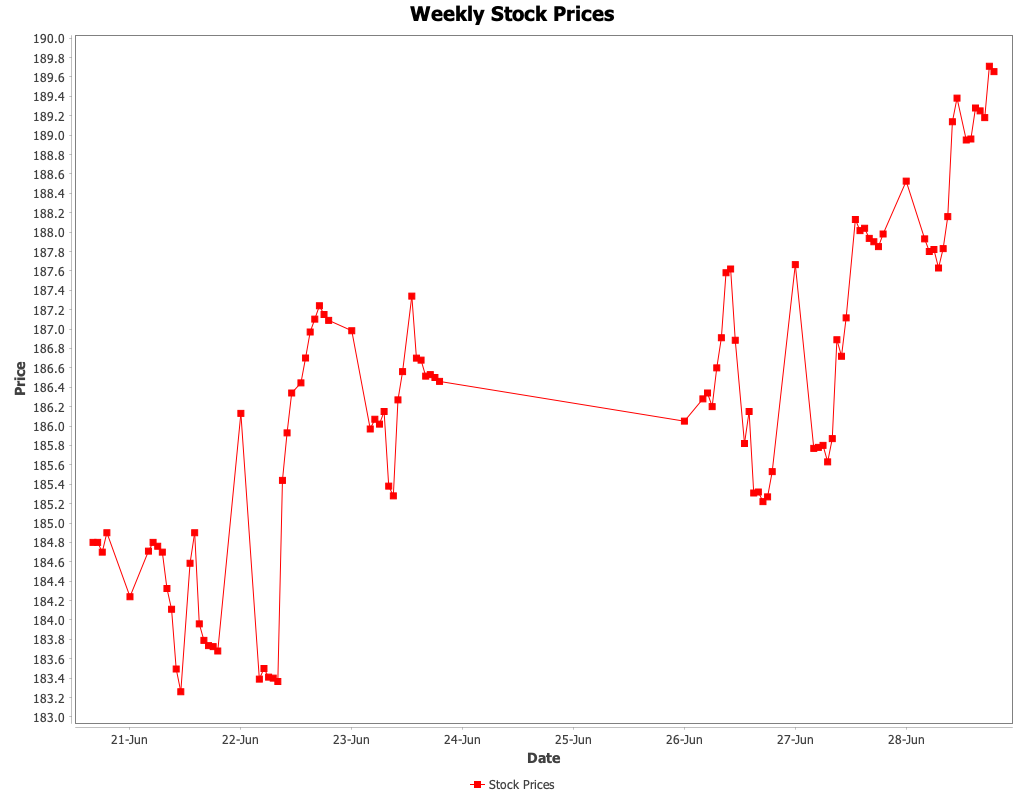
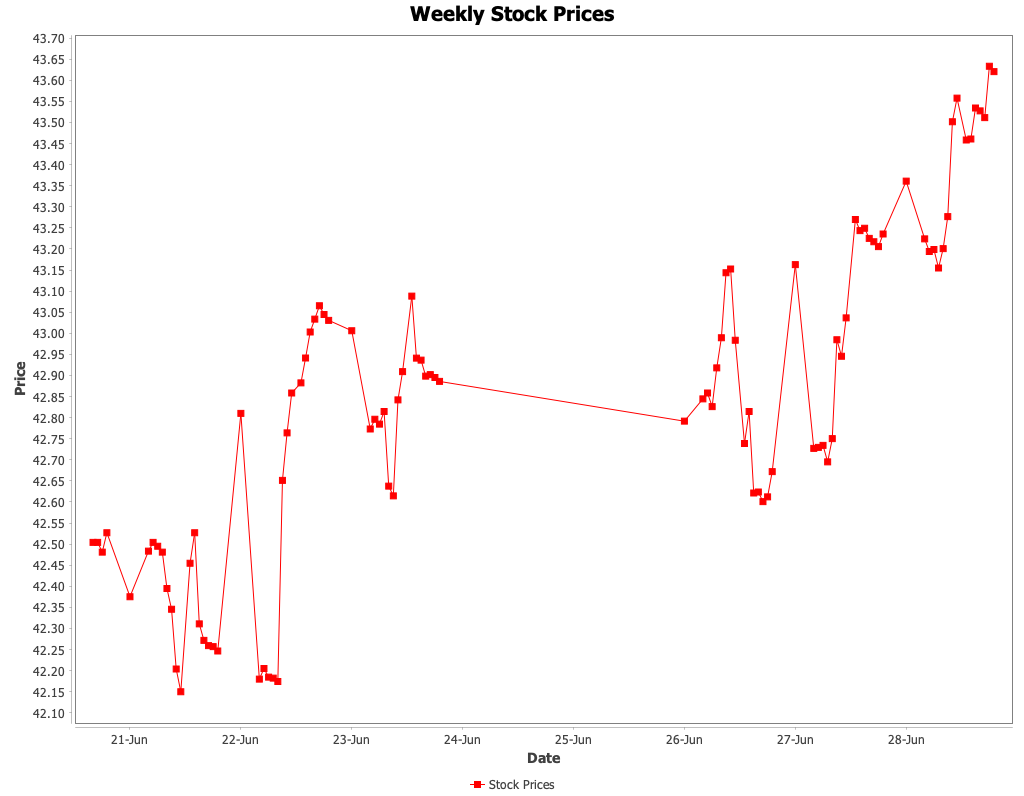
Adds stock data in graphs to info embeds

Changed region(s): [[0.0312, 0.0302, 0.0625, 0.9045]]

diff --git a/src/main/java/com/freyr/apollo18/data/Database.java b/src/main/java/com/freyr/apollo18/data/Database.java
@@ -715,12 +715,7 @@ public class Database {
                 int currentPrice = (int) Math.round(data.getDouble("price") * 0.23);
                 int previousPrice = currentPrice - change;
 
-                Bson updates = Updates.combine(
-                        Updates.set("stock.currentPrice", currentPrice),
-                        Updates.set("stock.previousPrice", previousPrice),
-                        Updates.set("stock.change", change),
-                        Updates.set("stock.arrowEmoji", BusinessHandler.getArrow(change))
-                );
+                Bson updates = Updates.combine(Updates.set("stock.currentPrice", currentPrice), Updates.set("stock.previousPrice", previousPrice), Updates.set("stock.change", change), Updates.set("stock.arrowEmoji", BusinessHandler.getArrow(change)));
 
                 businessData.updateOne(business, updates, new UpdateOptions().upsert(true));
                 createTransaction("stockUpdate", "Business / Stock / Update", previousPrice, currentPrice);
@@ -785,11 +780,7 @@ public class Database {
         }
 
         if (!userEconomyDoc.get("job", Document.class).getBoolean("worked")) {
-            Bson updates = Updates.combine(
-                    Updates.inc("economy.job.daysWorked", 1),
-                    Updates.set("economy.job.worked", true),
-                    Updates.set("economy.job.daysMissed", 0)
-            );
+            Bson updates = Updates.combine(Updates.inc("economy.job.daysWorked", 1), Updates.set("economy.job.worked", true), Updates.set("economy.job.daysMissed", 0));
 
             userData.updateOne(query, updates, new UpdateOptions().upsert(true));
             createTransaction(userId, "Job / Work", getBalance(userId) - userJob.getInteger("salary"), getBalance(userId));
@@ -801,10 +792,7 @@ public class Database {
         Document query = new Document("userID", userId);
         Document job = getJob(code, jobName);
 
-        Bson updates = Updates.combine(
-                Updates.set("economy.job.business", code),
-                Updates.set("economy.job.job", job.getString("name"))
-        );
+        Bson updates = Updates.combine(Updates.set("economy.job.business", code), Updates.set("economy.job.job", job.getString("name")));
 
         userData.updateOne(query, updates, new UpdateOptions().upsert(true));
     }
@@ -819,8 +807,7 @@ public class Database {
         for (Document user : userData.find(new Document())) {
             Document query = new Document("userID", user.getString("userID"));
             System.out.println("Updating data for " + user.getString("userID"));
-            if (user.get("economy", Document.class).get("job", Document.class).getInteger("daysMissed") == null
-                    || user.get("economy", Document.class).get("job", Document.class).getBoolean("worked") == null) {
+            if (user.get("economy", Document.class).get("job", Document.class).getInteger("daysMissed") == null || user.get("economy", Document.class).get("job", Document.class).getBoolean("worked") == null) {
                 Document job = new Document("business", null).append("job", null).append("daysWorked", 0).append("daysMissed", 0).append("worked", false);
                 Bson updates = Updates.set("economy.job", job);
 
@@ -829,10 +816,7 @@ public class Database {
             }
 
             if (!user.get("economy", Document.class).get("job", Document.class).getBoolean("worked") && user.get("economy", Document.class).get("job", Document.class).getString("job") != null) {
-                Bson updates = Updates.combine(
-                        Updates.set("economy.job.daysWorked", 0),
-                        Updates.inc("economy.job.daysMissed", 1)
-                );
+                Bson updates = Updates.combine(Updates.set("economy.job.daysWorked", 0), Updates.inc("economy.job.daysMissed", 1));
 
                 userData.updateOne(query, updates, new UpdateOptions().upsert(true));
                 System.out.println(user.getString("userID") + " did not work today. Days missed added");
@@ -843,11 +827,7 @@ public class Database {
             }
 
             if (user.get("economy", Document.class).get("job", Document.class).getInteger("daysMissed") > getJob(user.get("economy", Document.class).get("job", Document.class).getString("business"), user.get("economy", Document.class).get("job", Document.class).getString("job")).getInteger("daysBeforeFire")) {
-                Bson updates = Updates.combine(
-                        Updates.set("economy.job.business", null),
-                        Updates.set("economy.job.job", null),
-                        Updates.set("economy.job.daysMissed", 0)
-                );
+                Bson updates = Updates.combine(Updates.set("economy.job.business", null), Updates.set("economy.job.job", null), Updates.set("economy.job.daysMissed", 0));
 
                 userData.updateOne(query, updates, new UpdateOptions().upsert(true));
                 removeBytes(user.getString("userID"), getJob(user.get("economy", Document.class).get("job", Document.class).getString("business"), user.get("economy", Document.class).get("job", Document.class).getString("job")).getInteger("salary") * 5);

diff --git a/src/main/java/com/freyr/apollo18/commands/business/BusinessCommand.java b/src/main/java/com/freyr/apollo18/commands/business/BusinessCommand.java
@@ -12,8 +12,10 @@ import net.dv8tion.jda.api.events.interaction.command.SlashCommandInteractionEve
 import net.dv8tion.jda.api.interactions.commands.OptionType;
 import net.dv8tion.jda.api.interactions.commands.build.OptionData;
 import net.dv8tion.jda.api.interactions.commands.build.SubcommandData;
+import net.dv8tion.jda.api.utils.FileUpload;
 import org.bson.Document;
 
+import java.io.File;
 import java.util.List;
 import java.util.Objects;
 
@@ -57,7 +59,7 @@ public class BusinessCommand extends Command {
 
                 embed.setColor(EmbedColor.DEFAULT_COLOR);
                 event.getHook().sendMessageEmbeds(embed.build()).queue();
-            break;
+                break;
 
             case "info":
                 code = Objects.requireNonNull(event.getOption("code")).getAsString().toUpperCase();
@@ -75,8 +77,14 @@ public class BusinessCommand extends Command {
                 embed.setDescription(business.getString("description"));
                 embed.addField("Stock Info", "Price: " + BusinessHandler.byteEmoji + " `" + business.get("stock", Document.class).getInteger("currentPrice") + " bytes` " + business.get("stock", Document.class).getString("arrowEmoji") + " `(" + business.get("stock", Document.class).getInteger("change") + ")`\nCode: `" + business.getString("stockCode") + "`", false);
 
-                event.getHook().sendMessageEmbeds(embed.build()).queue();
-            break;
+                String imagePath = "src/main/resources/stock_data/" + business.get("stock", Document.class).getString("ticker") + "/" + business.get("stock", Document.class).getString("ticker") + "-graph.png";
+                System.out.println(imagePath);
+
+                File graph = new File(imagePath);
+                embed.setImage("attachment://graph.png");
+
+                event.getHook().sendMessageEmbeds(embed.build()).addFiles(FileUpload.fromData(graph, "graph.png")).queue();
+                break;
 
             case "buy":
                 code = Objects.requireNonNull(event.getOption("code")).getAsString().toUpperCase();
@@ -97,7 +105,7 @@ public class BusinessCommand extends Command {
                 db.addStockToUser(business, event.getUser().getId(), quantity);
 
                 event.getHook().sendMessageEmbeds(EmbedUtils.createSuccess("Purchase Successful")).queue();
-            break;
+                break;
 
             case "sell":
                 code = Objects.requireNonNull(event.getOption("code")).getAsString().toUpperCase();
@@ -116,7 +124,7 @@ public class BusinessCommand extends Command {
                 db.removeStockFromUser(event.getUser().getId(), code, quantity);
 
                 event.getHook().sendMessageEmbeds(EmbedUtils.createSuccess("Sale Successful")).queue();
-            break;
+                break;
 
             case "jobs":
                 code = Objects.requireNonNull(event.getOption("code")).getAsString().toUpperCase();
@@ -141,7 +149,7 @@ public class BusinessCommand extends Command {
                 }
 
                 event.getHook().sendMessageEmbeds(embed.build()).queue();
-            break;
+                break;
 
             case "set-job":
                 code = Objects.requireNonNull(event.getOption("code")).getAsString().toUpperCase();
@@ -155,7 +163,7 @@ public class BusinessCommand extends Command {
                 db.setJob(event.getUser().getId(), code, job);
 
                 event.getHook().sendMessageEmbeds(EmbedUtils.createSuccess("Job has been set to __" + db.getJob(code, job).getString("name") + "__")).queue();
-            break;
+                break;
         }
     }
 }

diff --git a/src/main/java/com/freyr/apollo18/data/StockData.java b/src/main/java/com/freyr/apollo18/data/StockData.java
@@ -23,12 +23,10 @@ import java.text.SimpleDateFormat;
 import java.util.Date;
 
 public class StockData {
-    private Apollo18 bot;
     private final String API_KEY;
-    private  String symbol;
+    private final String symbol;
 
     protected StockData(Apollo18 bot, String symbol) {
-        this.bot = bot;
         this.API_KEY = bot.getConfig().get("ALPHAVANTAGE", System.getenv("ALPHAVANTAGE"));
         this.symbol = symbol;
     }
@@ -70,7 +68,7 @@ public class StockData {
             for (String key : timeSeriesData.keySet()) {
                 Date date = dateFormat.parse(key);
                 JSONObject dailyData = timeSeriesData.getJSONObject(key);
-                double closePrice = dailyData.getDouble("4. close");
+                double closePrice = dailyData.getDouble("4. close") * 0.23;
                 timeSeries.addOrUpdate(new Hour(date), closePrice);
             }
         } catch (Exception e) {

diff --git a/src/main/java/com/freyr/apollo18/commands/dev/DailyTasks.java b/src/main/java/com/freyr/apollo18/commands/dev/DailyTasks.java
@@ -3,7 +3,6 @@ package com.freyr.apollo18.commands.dev;
 import com.freyr.apollo18.Apollo18;
 import com.freyr.apollo18.commands.Command;
 import com.freyr.apollo18.data.Database;
-import com.freyr.apollo18.data.StockData;
 import com.freyr.apollo18.util.embeds.EmbedUtils;
 import net.dv8tion.jda.api.events.interaction.command.SlashCommandInteractionEvent;
 
@@ -24,7 +23,6 @@ public class DailyTasks extends Command {
 
         db.updateStocks();
         db.dailyWorkChecks();
-
 
         event.getHook().sendMessageEmbeds(EmbedUtils.createSuccess("Daily tasks done")).queue();
     }

diff --git a/src/main/java/com/freyr/apollo18/Apollo18.java b/src/main/java/com/freyr/apollo18/Apollo18.java
@@ -57,7 +57,7 @@ public class Apollo18 {
         shardManager.addEventListener(new GuildListener(this), new ButtonListener(), new LevelingListener(this), new CommandManager(this), new BotListener(this));
 
         ZonedDateTime now = ZonedDateTime.now(ZoneId.of("America/Los_Angeles"));
-        ZonedDateTime nextRun = now.withHour(18).withMinute(34).withSecond(00);
+        ZonedDateTime nextRun = now.withHour(1).withMinute(00).withSecond(30);
         if (now.compareTo(nextRun) > 0) {
             nextRun = nextRun.plusDays(1);
         }
